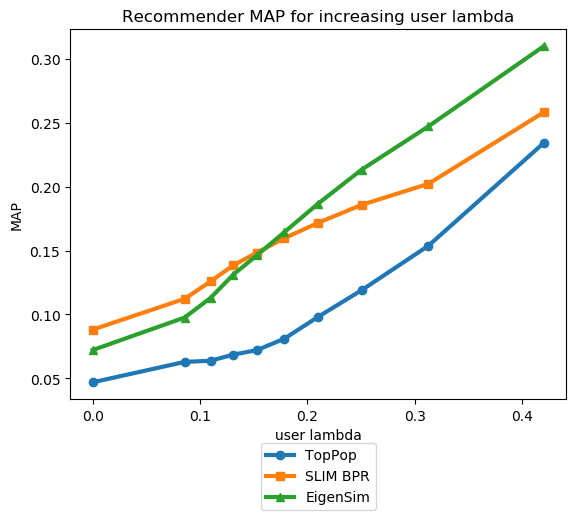
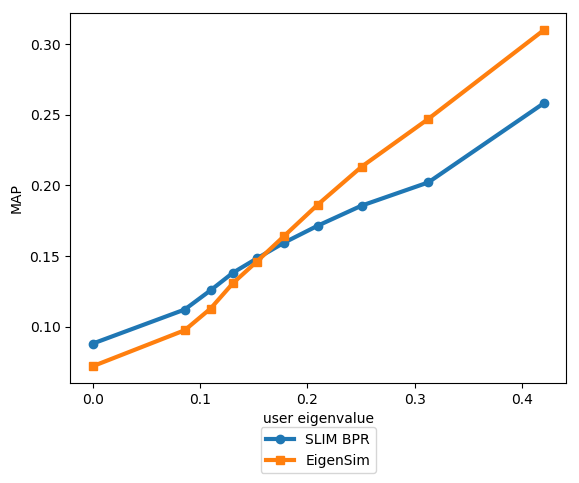
.

diff --git a/run_plot_lambda_threshold.py b/run_plot_lambda_threshold.py
@@ -46,8 +46,8 @@ def plot_lambda_profile_length(user_lambda, URM_train, dataset_name, lambda_rang
     plt.switch_backend('agg')
 
     plt.xlabel('profile length')
-    plt.ylabel("user lambda")
-    plt.title("Profile length and corresponding lambda")
+    plt.ylabel("user eigenvalue")
+    #plt.title("Profile length and corresponding lambda")
 
 
     URM_train = sps.csr_matrix(URM_train)
@@ -58,6 +58,23 @@ def plot_lambda_profile_length(user_lambda, URM_train, dataset_name, lambda_rang
     plt.scatter(profile_length[profile_length_user_id], user_lambda[profile_length_user_id], s=0.5)
 
     plt.savefig("results/plot/Profile_length_over_lambda_{}_{}_{}".format(dataset_name, lambda_range, mode))
+
+    plt.close()
+
+
+
+    # Turn interactive plotting off
+    plt.ioff()
+
+    # Ensure it works even on SSH
+    plt.switch_backend('agg')
+
+    plt.xlabel('log profile length')
+    plt.ylabel("user eigenvalue")
+
+    plt.scatter(np.log(profile_length[profile_length_user_id]), user_lambda[profile_length_user_id], s=0.5)
+
+    plt.savefig("results/plot/Profile_length_log_over_lambda_{}_{}_{}".format(dataset_name, lambda_range, mode))
 
     plt.close()
 
@@ -135,7 +152,7 @@ def plot_lambda_user_performance(user_lambda, personalized_recommender, URM_trai
     plt.switch_backend('agg')
 
     plt.xlabel('MAP')
-    plt.ylabel("user lambda")
+    plt.ylabel("user eigenvalue")
     plt.title("User MAP and corresponding lambda")
 
     lambda_user_id = np.argsort(user_lambda)
@@ -219,7 +236,7 @@ def plot_lambda_user_performance_on_train(user_lambda, personalized_recommender,
     # Ensure it works even on SSH
     plt.switch_backend('agg')
 
-    plt.xlabel('user lambda')
+    plt.xlabel('user eigenvalue')
     plt.ylabel("MAP")
     plt.title("User MAP and corresponding lambda")
 
@@ -230,24 +247,6 @@ def plot_lambda_user_performance_on_train(user_lambda, personalized_recommender,
     plt.savefig("results/Lambda_over_user_map_on_train_{}".format(dataset_name))
 
     plt.close()
-
-
-
-
-def plot_hybrid_performance(dataReader_class):
-
-    for mode in ["pinv", "transpose"]:
-
-        for train_on in ["all"]:#["subset", "all"]:
-
-            for negative in [True]:#, True]:
-
-                plot_CF_performance_on_lambda_threshold(dataReader_class, train_on = train_on, mode = mode, negative = negative)
-
-    # plot_hybrid_performance_inner(dataReader_class, use_lambda = True, mode="pinv", negative=False)
-    # plot_hybrid_performance_inner(dataReader_class, use_lambda = True, mode="transpose", negative=False)
-    #plot_hybrid_performance_inner(dataReader_class, use_lambda = False)
-
 
 
 
@@ -326,6 +325,7 @@ def plot_CF_performance_on_lambda_threshold(dataReader_class, mode = "pinv", neg
     map_performance_SLIM_lambda = []
 
     x_tick = []
+    x_avg_p_len = []
 
 
 
@@ -441,6 +441,12 @@ def plot_CF_performance_on_lambda_threshold(dataReader_class, mode = "pinv", neg
 
         x_tick.append(lambda_threshold_min)
 
+        URM_train_involved_users = sps.csr_matrix(URM_train[users_involved,:])
+        profile_length_involved_users = np.ediff1d(URM_train_involved_users.indptr)
+
+        x_avg_p_len.append(profile_length_involved_users.mean())
+
+
         # Turn interactive plotting off
         plt.ioff()
 
@@ -448,9 +454,9 @@ def plot_CF_performance_on_lambda_threshold(dataReader_class, mode = "pinv", neg
         plt.switch_backend('agg')
 
 
-        plt.xlabel('user lambda')
+        plt.xlabel('user eigenvalue')
         plt.ylabel("MAP")
-        plt.title("Recommender MAP for increasing user lambda")
+        #plt.title("Recommender MAP for increasing user lambda")
 
         marker_list = ['o', 's', '^', 'v', 'D']
         marker_iterator_local = itertools.cycle(marker_list)
@@ -464,9 +470,9 @@ def plot_CF_performance_on_lambda_threshold(dataReader_class, mode = "pinv", neg
         # plt.bar(np.array(x_tick), map_performance_TopPop, width = width, label="TopPop")
         #
         # plt.bar(np.array(x_tick) + 0.1, map_performance_CF, width = width, label="Item KNN CF")
-
-        plt.plot(x_tick, map_performance_TopPop, linewidth=3, label="TopPop",
-                 linestyle = "-", marker = marker_iterator_local.__next__())
+        #
+        # plt.plot(x_tick, map_performance_TopPop, linewidth=3, label="TopPop",
+        #          linestyle = "-", marker = marker_iterator_local.__next__())
 
         plt.plot(x_tick, map_performance_CF, linewidth=3, label="SLIM BPR",
                  linestyle = "-", marker = marker_iterator_local.__next__())
@@ -491,6 +497,51 @@ def plot_CF_performance_on_lambda_threshold(dataReader_class, mode = "pinv", neg
 
 
 
+    log_file = open("results/plot/Correlation_{}_mode_{}_range_{}_train_on_{}_{}.txt".format(dataset_name, mode, lambda_range, train_on,
+                pers_collaborative_class.RECOMMENDER_NAME), "a")
+
+
+
+    corr_lambda_map = np.corrcoef(x_tick, map_performance_CF)[0,1]
+
+    log_file.write("eigenvalue - MAP correlation is: {}\n".format(corr_lambda_map))
+
+    corr_p_len_map = np.corrcoef(x_avg_p_len, map_performance_CF)[0,1]
+
+    log_file.write("profile len - MAP correlation is: {}\n".format(corr_p_len_map))
+
+    URM_train = sps.csr_matrix(URM_train)
+    profile_length = np.ediff1d(URM_train.indptr)
+
+    corr_lambda_profile_length = np.corrcoef(user_lambda, profile_length)[0,1]
+
+    log_file.write("eigenvalue - profile len correlation is: {}\n".format(corr_lambda_profile_length))
+
+    corr_lambda_profile_length = np.corrcoef(user_lambda, np.log(profile_length))[0,1]
+
+    log_file.write("eigenvalue - log profile len correlation is: {}\n".format(corr_lambda_profile_length))
+
+    log_file.close()
+
+
+
+def plot_hybrid_performance(dataReader_class):
+
+    for mode in ["pinv", "transpose"]:
+
+        for train_on in ["all"]:#["subset", "all"]:
+
+            for negative in [True, False]:
+
+                plot_CF_performance_on_lambda_threshold(dataReader_class, train_on = train_on, mode = mode, negative = negative)
+
+    # plot_hybrid_performance_inner(dataReader_class, use_lambda = True, mode="pinv", negative=False)
+    # plot_hybrid_performance_inner(dataReader_class, use_lambda = True, mode="transpose", negative=False)
+    #plot_hybrid_performance_inner(dataReader_class, use_lambda = False)
+
+
+
+
 
 
 import multiprocessing, traceback
@@ -498,12 +549,12 @@ import multiprocessing, traceback
 if __name__ == '__main__':
 
     dataReader_class_list = [
-        #Movielens1MReader,
+        Movielens1MReader,
         Movielens10MReader,
         #NetflixEnhancedReader,
         #BookCrossingReader,
         #XingChallenge2016Reader
-        #NetflixPrizeReader
+        NetflixPrizeReader
     ]
 
 
